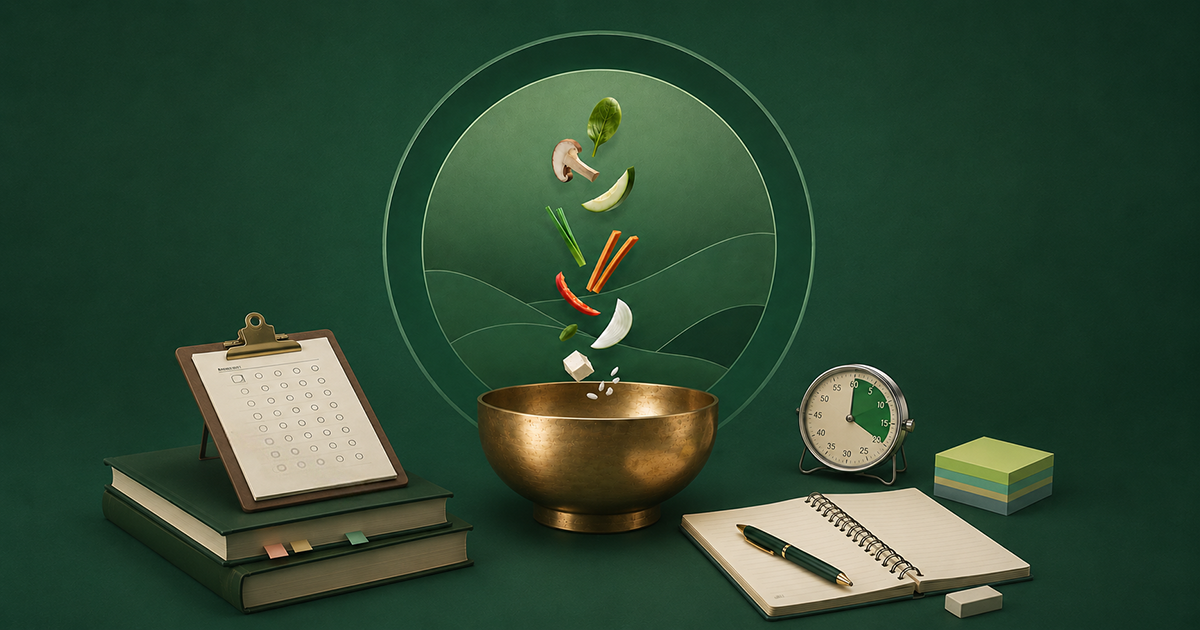
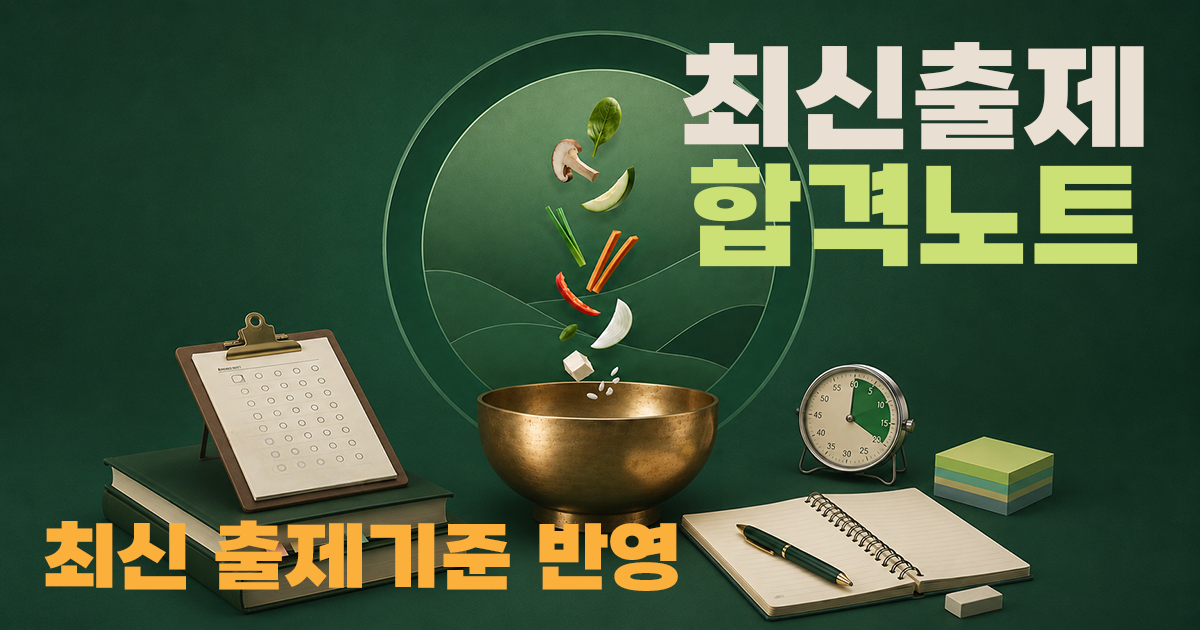
Put the new artwork in, and stop saying 최신 기출
The share card gains the title and 최신 출제기준 반영 baked in, and the
supplied 192 and 512 icons arrive with a manifest so the app can be
added to a home screen.

They are declared purpose "any" and not maskable on purpose: the icon's
lettering runs to the edges, and a maskable icon has its outer tenth cut
away by the launcher, so 최신출제 would lose its first and last
character.

The onboarding line still read "최신 기출과 예상문제로" -- the same claim
we removed from the share card and the image itself, left behind in the
app's own copy. The 기출 run from 2011 to 2016. It now says 최신
출제기준에 맞춘, which the four-subject structure actually supports.

The new onboarding photo is not in yet. It is 1086x1448 against a
390-wide frame, and object-fit: cover would take 18% off each side --
its text sits between 13% and 88%, so both ends would be clipped.

Changed region(s): [[0.555, 0.0603, 0.9558, 0.4222], [0.0308, 0.8143, 0.5858, 0.9349]]

diff --git a/public/index.html b/public/index.html
@@ -24,6 +24,10 @@
 <link rel="icon" type="image/png" sizes="64x64" href="/favicon-64.png">
 <link rel="apple-touch-icon" sizes="180x180" href="/apple-touch-icon.png">
 
+<!-- 홈 화면에 추가(PWA). 아이콘 글자가 가장자리까지 차 있어 purpose 는 any 로만 둔다 —
+     maskable 로 선언하면 안드로이드가 바깥 10%를 잘라내면서 글자가 날아간다. -->
+<link rel="manifest" href="/manifest.json">
+
 <!-- 검색엔진 소유권 확인. ⚠ 지우면 확인이 풀린다 — 확인이 끝난 뒤에도 남겨둘 것. -->
 <meta name="google-site-verification" content="Cj_i1xxEsPJEI9K-lspFDsJLkZqNVKVw-pHgv43PBJY">
 <meta name="naver-site-verification" content="0251204e46d8c9127876ec564ee719810a634455">
@@ -667,7 +671,7 @@
       <div class="ob-copy">
         <div class="ob-badge">한식조리기능사 필기</div>
         <h1>최신 한식조리기능사<br>합격노트</h1>
-        <p>최신 기출과 예상문제로,<br>합격까지 가장 빠른 길을 걸어보세요.</p>
+        <p>최신 출제기준에 맞춘 기출·예상문제로,<br>합격까지 가장 빠른 길을 걸어보세요.</p>
       </div>
     </div>
   </div>
